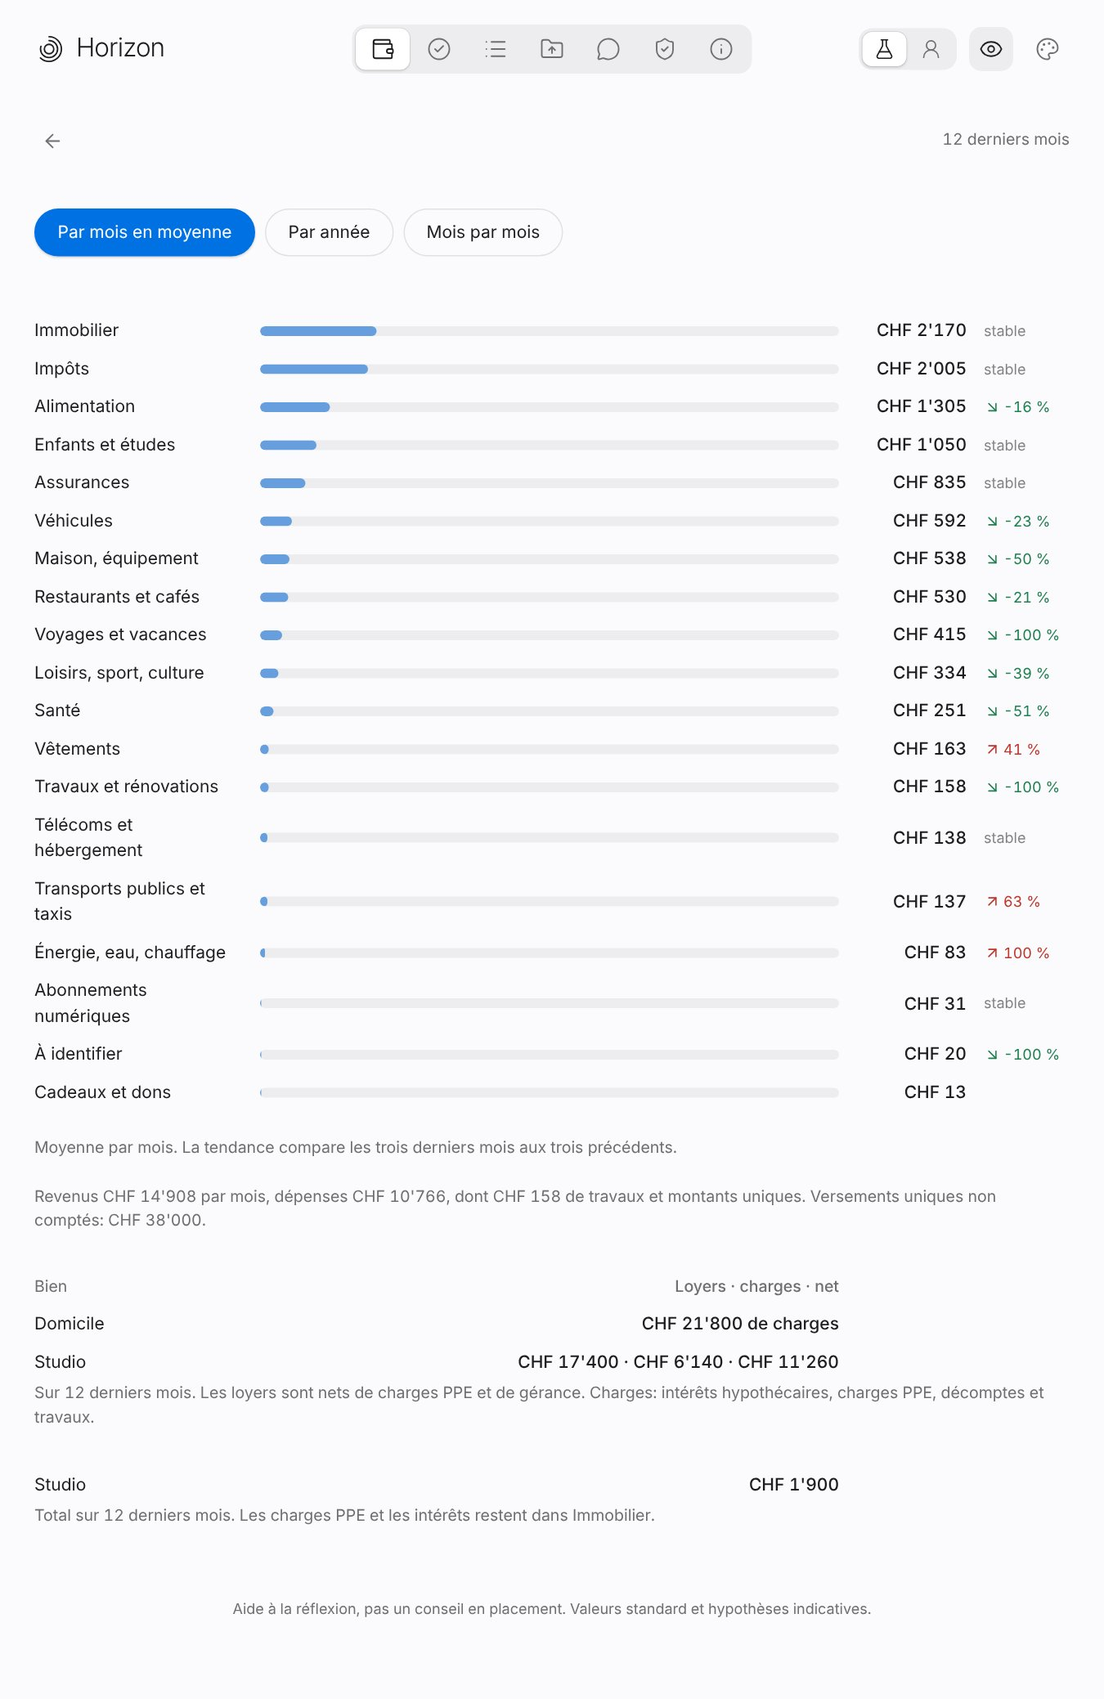
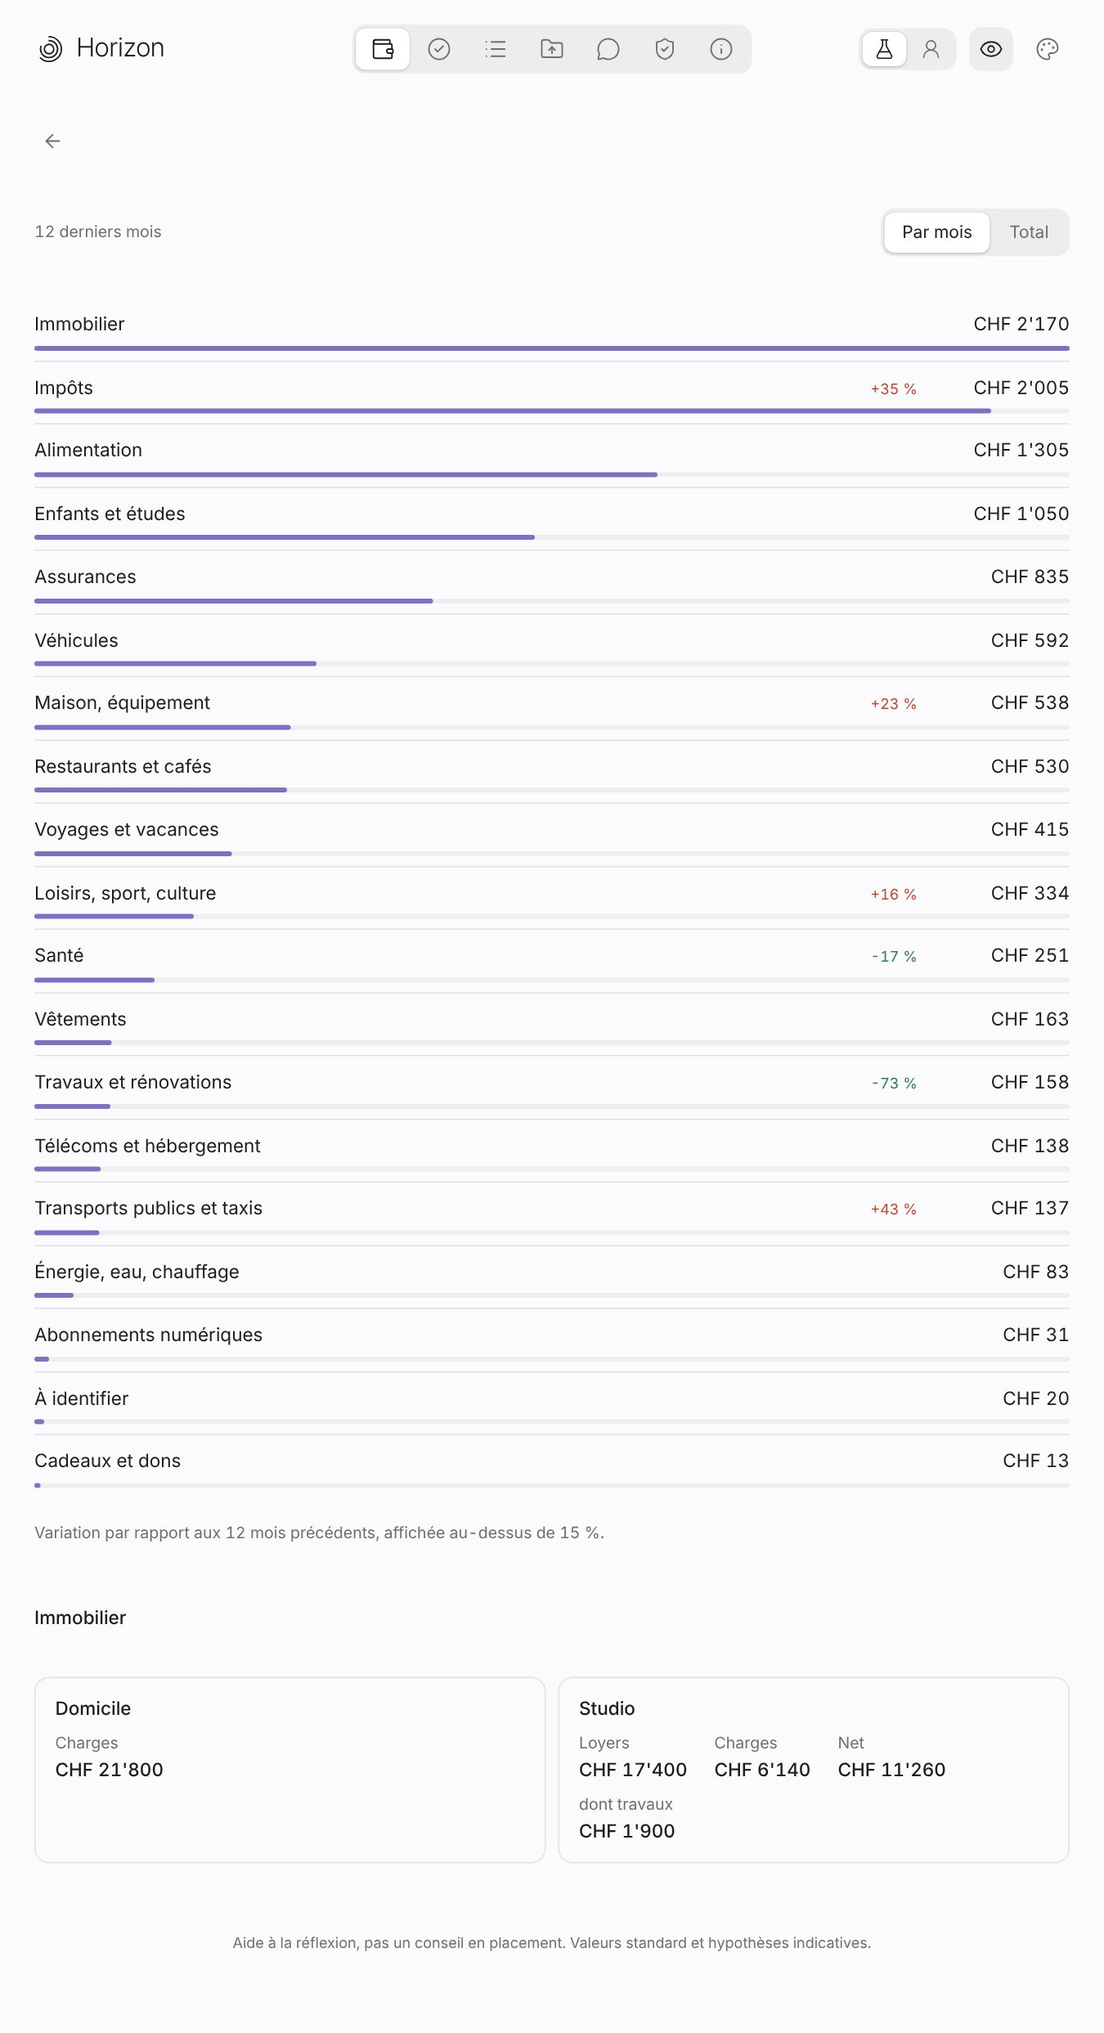
Budget: année en cours cumulée à ce jour, variations à période égale, liste par catégorie simplifiée, biens en cartes (corrige le build cassé)
Claude-Session: https://claude.ai/code/session_01UT5uZqmcmGMjmS4u3UQAYj

diff --git a/src/views/Budget.tsx b/src/views/Budget.tsx
@@ -57,16 +57,27 @@ export function Budget({ db, state, setState, reveal }: { db: Db; state: State; 
   const [period, setPeriod] = useState('12');
   const [view, setView] = useState<'home' | 'all' | 'todo'>(full.length > 0 ? 'home' : 'todo');
   const [sel, setSel] = useState('');
-  const years = useMemo(() => [...new Set(full.filter((m) => m.spend > 0).map((m) => m.month.slice(0, 4)))].filter((y) => full.filter((m) => m.month.startsWith(y) && m.spend > 0).length >= 6).sort().reverse(), [full]);
-  const yearOk = period === '12' || years.includes(period);
-  const used = period === 'm' ? full.slice(-1) : period === '12' || !yearOk ? full.slice(-12) : full.filter((m) => m.month.startsWith(period));
-  const prevYear = period !== '12' && yearOk ? full.filter((m) => m.month.startsWith(String(Number(period) - 1))) : [];
-  const periodLabel = period === 'm' && last ? monthName(last.month) : period === '12' || !yearOk ? `${used.length} derniers mois` : `${used.length} mois de ${period}`;
+  const years = useMemo(() => [...new Set(full.filter((m) => m.spend > 0).map((m) => m.month.slice(0, 4)))].filter((y) => full.filter((m) => m.month.startsWith(y) && m.spend > 0).length >= 3).sort().reverse(), [full]);
+  const isMonth = /^\d{4}-\d{2}$/.test(period);
+  const yearOk = period === '12' || isMonth || years.includes(period);
+  const used = isMonth ? full.filter((m) => m.month === period) : period === '12' || !yearOk ? full.slice(-12) : full.filter((m) => m.month.startsWith(period));
+  // Comparaison à période égale: mêmes mois un an plus tôt, ou les 12 mois précédents. Jamais une année entière contre une année entamée.
+  const prevYear = (() => {
+    if (period === '12' || !yearOk) return full.length >= 24 ? full.slice(-24, -12) : [];
+    const y = String(Number(period.slice(0, 4)) - 1);
+    const months = new Set(used.map((m) => m.month.slice(5)));
+    const p = full.filter((m) => m.month.startsWith(y) && months.has(m.month.slice(5)));
+    return p.length === used.length ? p : [];
+  })();
+  const prevLabel = period === '12' || !yearOk ? 'aux 12 mois précédents' : `à la même période en ${Number(period.slice(0, 4)) - 1}`;
+  const curYear = last ? last.month.slice(0, 4) : '';
+  const yearName = (y: string) => (y === curYear && last && last.month.slice(5) !== '12' ? `${y} à ce jour` : y);
+  const periodLabel = isMonth ? monthName(period) : period === '12' || !yearOk ? `${used.length} derniers mois` : yearName(period);
   // Une dépense payée une année mais qui appartient à une autre (solde d'impôts) suit son année dans la vue par année.
   const adj = useMemo(() => {
     const byCat: Record<string, number> = {};
     let total = 0;
-    if (period !== '12' && yearOk) {
+    if (period !== '12' && !isMonth && yearOk) {
       for (const m of full) {
         const inUsed = m.month.startsWith(period);
         for (const mv of m.moved ?? []) {
@@ -91,21 +102,19 @@ export function Budget({ db, state, setState, reveal }: { db: Db; state: State; 
   const maxBar = Math.max(1, ...used.flatMap((m) => [m.income + m.exceptional, m.spend]));
   const sum = (f: (m: (typeof full)[number]) => number) => used.reduce((s, m) => s + f(m), 0);
 
-  // Tendance: trois derniers mois contre les trois précédents.
   const cats = useMemo(() => {
     const keys = [...new Set([...used.flatMap((m) => Object.keys(m.byCategory)), ...Object.keys(adj.byCat)])];
-    const mean = (ms: typeof used, k: string) => (ms.length ? ms.reduce((s, m) => s + (m.byCategory[k] ?? 0), 0) / ms.length : 0);
+    const mean = (ms: typeof used, k: string) => (ms.length ? ms.reduce((t, m) => t + (m.byCategory[k] ?? 0), 0) / ms.length : 0);
     return keys
       .map((k) => {
-        const recent = mean(used.slice(-3), k);
-        const before = mean(used.slice(-6, -3), k);
-        const prevAvg = prevYear.length >= 6 ? mean(prevYear, k) : null;
-        const trend = prevAvg !== null ? (prevAvg > 20 ? mean(used, k) / prevAvg - 1 : null) : used.length >= 6 && before > 20 ? recent / before - 1 : null;
-        return { key: k, avg: mean(used, k) + (used.length ? (adj.byCat[k] ?? 0) / used.length : 0), last: last?.byCategory[k] ?? 0, trend, prevAvg };
+        const avg = mean(used, k) + (used.length ? (adj.byCat[k] ?? 0) / used.length : 0);
+        const prevAvg = prevYear.length > 0 ? mean(prevYear, k) : null;
+        const trend = prevAvg !== null && prevAvg > 20 ? avg / prevAvg - 1 : null;
+        return { key: k, avg, total: avg * used.length, prevAvg, trend };
       })
       .filter((c) => c.avg > 0)
       .sort((p, q) => q.avg - p.avg);
-  }, [used, last, prevYear, adj]);
+  }, [used, prevYear, adj]);
 
   const immoRows = useMemo(() => {
     const t: Record<string, { loyers: number; charges: number }> = {};
@@ -118,35 +127,7 @@ export function Budget({ db, state, setState, reveal }: { db: Db; state: State; 
     const rank = (k: string) => ((b.homes ?? []).includes(k) ? 0 : k === 'Non réparti' ? 2 : 1);
     return Object.entries(t).sort((p, q) => rank(p[0]) - rank(q[0]) || p[0].localeCompare(q[0]));
   }, [used, b.homes]);
-  // Dépenses par catégorie, par année ou par mois, pour voir d'un coup d'œil ce qu'une catégorie coûte sur l'année.
-  const [catView, setCatView] = useState<'liste' | 'annee' | 'mois'>('liste');
-  const catTable = useMemo(() => {
-    type Col = { key: string; label: string; sub: string; totals: Record<string, number>; n: number };
-    let cols: Col[] = [];
-    if (catView === 'mois') {
-      cols = used.map((m) => ({ key: m.month, label: new Date(`${m.month}-01T00:00:00`).toLocaleDateString('fr-CH', { month: 'short' }), sub: m.month.slice(0, 4), totals: m.byCategory, n: 1 }));
-    } else {
-      for (const y of [...new Set(full.map((m) => m.month.slice(0, 4)))].sort()) {
-        const mm = full.filter((m) => m.month.startsWith(y));
-        if (mm.length < 3) continue; // une année à peine entamée ne dit rien
-        const totals: Record<string, number> = {};
-        for (const m of mm) for (const [k, v] of Object.entries(m.byCategory)) totals[k] = (totals[k] ?? 0) + v;
-        // Un impôt payé une autre année suit son année.
-        for (const m of full) {
-          for (const mv of m.moved ?? []) {
-            const inYear = m.month.startsWith(y);
-            if (inYear && mv.year !== y) totals[mv.category] = (totals[mv.category] ?? 0) - mv.amount;
-            if (!inYear && mv.year === y) totals[mv.category] = (totals[mv.category] ?? 0) + mv.amount;
-          }
-        }
-        cols.push({ key: y, label: y, sub: mm.length < 12 ? `${mm.length} mois` : '', totals, n: mm.length });
-      }
-    }
-    const keys = [...new Set(cols.flatMap((c) => Object.keys(c.totals)))].filter((k) => cols.some((c) => (c.totals[k] ?? 0) > 0));
-    const lastCol = cols[cols.length - 1];
-    if (lastCol) keys.sort((p, q) => (lastCol.totals[q] ?? 0) - (lastCol.totals[p] ?? 0));
-    return { cols, keys };
-  }, [catView, used, full]);
+  const [catView, setCatView] = useState<'moy' | 'total'>('moy');
   const worksByBien = useMemo(() => {
     const t: Record<string, number> = {};
     for (const m of used) for (const [k, v] of Object.entries(m.works ?? {})) t[k] = (t[k] ?? 0) + v;
@@ -258,23 +239,27 @@ export function Budget({ db, state, setState, reveal }: { db: Db; state: State; 
   const topCats = cats.slice(0, 5);
   const periodSelect = (
     <select className="periodsel" value={period} onChange={(e) => setPeriod(e.target.value)} aria-label="Période">
-      <option value="m">{last ? monthName(last.month) : 'Mois'}</option>
       <option value="12">12 derniers mois</option>
-      {years.map((y) => <option key={y} value={y}>{y}</option>)}
+      {years.map((y) => <option key={y} value={y}>{yearName(y)}</option>)}
+      <optgroup label="Mois">
+        {full.slice(-12).reverse().map((m) => <option key={m.month} value={m.month}>{monthName(m.month)}</option>)}
+      </optgroup>
     </select>
   );
+  const bienNames = [...new Set([...immoRows.map(([k]) => k), ...worksByBien.map(([k]) => k)])];
+  const maxCat = Math.max(1, ...cats.map((c) => (catView === 'total' ? c.total : c.avg)));
 
   return (
     <div className="page wide budget">
       <div className="topbar">
         {view === 'home' && last ? periodSelect : <button className="iconbtn" onClick={() => setView('home')} aria-label="Retour"><ArrowLeft size={18} strokeWidth={1.6} /></button>}
-        {view === 'home' && last ? <button className="iconbtn" onClick={() => setView('todo')} aria-label="Documents et points à traiter" title="Documents et points à traiter"><FolderOpen size={18} strokeWidth={1.6} />{todo > 0 ? <i className="badge">{todo}</i> : null}</button> : <span className="muted small">{view === 'all' ? periodLabel : 'Documents'}</span>}
+        {view === 'home' && last ? <button className="iconbtn" onClick={() => setView('todo')} aria-label="Documents et points à traiter" title="Documents et points à traiter"><FolderOpen size={18} strokeWidth={1.6} />{todo > 0 ? <i className="badge">{todo}</i> : null}</button> : <span className="muted small">{view === 'all' ? '' : 'Documents'}</span>}
       </div>
 
       {view === 'home' && last ? (
         <>
           <section className="hero">
-            <p className="unit">Reste {period === 'm' ? '' : 'par mois'}</p>
+            <p className="unit">Reste{used.length > 1 ? ' par mois' : ''}</p>
             <p className={'big xl' + (reste < 0 ? ' neg' : '')}>{money(reste)}</p>
           </section>
           <ul className="toplist">
@@ -288,98 +273,58 @@ export function Budget({ db, state, setState, reveal }: { db: Db; state: State; 
 
       {view === 'all' && last ? (
         <>
-          <div className="periods" role="tablist" aria-label="Affichage des catégories">
-            <button className={'btn' + (catView === 'liste' ? ' primary' : '')} onClick={() => setCatView('liste')}>Par mois en moyenne</button>
-            <button className={'btn' + (catView === 'annee' ? ' primary' : '')} onClick={() => setCatView('annee')}>Par année</button>
-            <button className={'btn' + (catView === 'mois' ? ' primary' : '')} onClick={() => setCatView('mois')}>Mois par mois</button>
+          <div className="allhead">
+            <span className="muted small">{periodLabel}</span>
+            {used.length > 1 ? (
+              <div className="seg" role="tablist" aria-label="Affichage">
+                <button className={catView === 'moy' ? 'on' : ''} onClick={() => setCatView('moy')}>Par mois</button>
+                <button className={catView === 'total' ? 'on' : ''} onClick={() => setCatView('total')}>Total</button>
+              </div>
+            ) : null}
           </div>
-          {catView === 'liste' ? (
-            <>
-            <ul className="cats">
-              {cats.map((c) => (
+          <ul className="catlist">
+            {cats.map((c) => {
+              const v = catView === 'total' ? c.total : c.avg;
+              return (
                 <li key={c.key}>
-                  <span className="name">{LABEL[c.key] ?? c.key}</span>
-                  <span className="share"><i style={{ width: `${avgSpend > 0 ? Math.min(100, (c.avg / avgSpend) * 100) : 0}%` }} /></span>
-                  <span className="amt">{money(c.avg)}{c.prevAvg !== null && prevYear.length >= 6 ? <span className="muted small"> ({Number(period) - 1}: {money(c.prevAvg)})</span> : null}</span>
-                  <span className={'trend' + (c.trend !== null && c.trend > 0.15 ? ' up' : c.trend !== null && c.trend < -0.15 ? ' down' : '')}>
-                    {c.trend === null ? '' : c.trend > 0.15 ? <><ArrowUpRight size={14} strokeWidth={1.8} />{Math.round(c.trend * 100)} %</> : c.trend < -0.15 ? <><ArrowDownRight size={14} strokeWidth={1.8} />{Math.round(c.trend * 100)} %</> : 'stable'}
-                  </span>
+                  <span className="n">{LABEL[c.key] ?? c.key}</span>
+                  <span className="trend2">{c.trend !== null && Math.abs(c.trend) > 0.15 ? <span className={c.trend > 0 ? 'up' : 'down'}>{c.trend > 0 ? '+' : ''}{Math.round(c.trend * 100)} %</span> : null}</span>
+                  <span className="v">{money(v)}</span>
+                  <span className="b"><i style={{ width: `${(v / maxCat) * 100}%` }} /></span>
                 </li>
-              ))}
-            </ul>
-              <p className="muted small">Moyenne par mois. La tendance compare les trois derniers mois aux trois précédents.</p>
-            </>
-          ) : catTable.cols.length > 0 && catTable.keys.length > 0 ? (
+              );
+            })}
+          </ul>
+          {prevYear.length > 0 ? <p className="muted small">Variation par rapport {prevLabel}, affichée au-dessus de 15 %.</p> : null}
+          {bienNames.length > 0 ? (
             <>
-              <div className="periods" role="tablist" aria-label="Affichage des catégories">
-                <button className={'btn' + (catView === 'annee' ? ' primary' : '')} onClick={() => setCatView('annee')}>Par année</button>
-                <button className={'btn' + (catView === 'mois' ? ' primary' : '')} onClick={() => setCatView('mois')}>Par mois</button>
+              <h3 className="subtitle">Immobilier</h3>
+              <div className="biens">
+                {bienNames.map((bien) => {
+                  const v = Object.fromEntries(immoRows)[bien] ?? { loyers: 0, charges: 0 };
+                  const home = (b.homes ?? []).includes(bien);
+                  const works = Object.fromEntries(worksByBien)[bien] ?? 0;
+                  return (
+                    <div className="bien" key={bien}>
+                      <div className="bn">{bien}</div>
+                      <div className="bf">
+                        {home ? (
+                          <div><span>Charges</span><b>{money(v.charges)}</b></div>
+                        ) : (
+                          <>
+                            <div><span>Loyers</span><b>{money(v.loyers)}</b></div>
+                            <div><span>Charges</span><b>{money(v.charges)}</b></div>
+                            <div><span>Net</span><b>{money(v.loyers - v.charges)}</b></div>
+                          </>
+                        )}
+                        {works > 0 ? <div><span>dont travaux</span><b>{money(works)}</b></div> : null}
+                      </div>
+                    </div>
+                  );
+                })}
               </div>
-              <div className="cattable-wrap">
-                <table className="cattable">
-                  <thead>
-                    <tr>
-                      <th>Catégorie</th>
-                      {catTable.cols.map((c) => <th key={c.key}>{c.label}{c.sub ? <span className="muted small"> {c.sub}</span> : null}</th>)}
-                      {catView === 'annee' && catTable.cols.length >= 2 ? <th>Évolution</th> : null}
-                    </tr>
-                  </thead>
-                  <tbody>
-                    {catTable.keys.map((k) => {
-                      const a = catTable.cols[catTable.cols.length - 2];
-                      const z = catTable.cols[catTable.cols.length - 1];
-                      const evo = catView === 'annee' && a && z && a.n >= 6 && z.n >= 6 && (a.totals[k] ?? 0) / a.n > 20 ? (z.totals[k] ?? 0) / z.n / ((a.totals[k] ?? 0) / a.n) - 1 : null;
-                      return (
-                        <tr key={k}>
-                          <th scope="row">{LABEL[k] ?? k}</th>
-                          {catTable.cols.map((c) => <td key={c.key}>{c.totals[k] ? money(c.totals[k]) : '·'}</td>)}
-                          {catView === 'annee' && catTable.cols.length >= 2 ? <td className={'trend' + (evo !== null && evo > 0.15 ? ' up' : evo !== null && evo < -0.15 ? ' down' : '')}>{evo === null ? '' : `${evo > 0 ? '+' : ''}${Math.round(evo * 100)} %`}</td> : null}
-                        </tr>
-                      );
-                    })}
-                    <tr className="total">
-                      <th scope="row">Total</th>
-                      {catTable.cols.map((c) => <td key={c.key}>{money(Object.entries(c.totals).reduce((s, [k, v]) => s + (catTable.keys.includes(k) ? v : 0), 0))}</td>)}
-                      {catView === 'annee' && catTable.cols.length >= 2 ? <td /> : null}
-                    </tr>
-                  </tbody>
-                </table>
-              </div>
-              <p className="muted small">{catView === 'annee' ? 'Total payé dans l’année, impôts rattachés à leur année. L’évolution compare la moyenne mensuelle des deux dernières années.' : `Dépenses de chaque mois sur ${periodLabel}.`}</p>
-
             </>
           ) : null}
-          <p className="muted small">Revenus {money(avgIncome)} par mois, dépenses {money(avgSpend)}, dont {money(avgOneOff)} de travaux et montants uniques. Versements uniques non comptés: {money(sum((m) => m.exceptional))}.</p>
-          {immoRows.length > 0 ? (
-            <h3 className="subtitle">Immobilier</h3>
-<h3 className="subtitle">Travaux par bien</h3>
-<div className="inner">
-              <ul className="cats">
-                <li><span className="name muted small">Bien</span><span className="amt muted small">Loyers · charges · net</span></li>
-                {immoRows.map(([bien, v]) => (
-                  <li key={bien}>
-                    <span className="name">{(b.homes ?? []).includes(bien) && !/domicile/i.test(bien) ? `${bien} (domicile)` : bien}</span>
-                    <span className="amt">{(b.homes ?? []).includes(bien) ? `${money(v.charges)} de charges` : `${money(v.loyers)} · ${money(v.charges)} · ${money(v.loyers - v.charges)}`}</span>
-                  </li>
-                ))}
-              </ul>
-              <p className="muted small">Sur {periodLabel}. Les loyers sont nets de charges PPE et de gérance. Charges: intérêts hypothécaires, charges PPE, décomptes et travaux.</p>
-            </div>
-          ) : null}
-          {worksByBien.length > 0 ? (
-            <div className="inner">
-              <ul className="cats">
-                {worksByBien.map(([bien, total]) => (
-                  <li key={bien}>
-                    <span className="name">{bien}</span>
-                    <span className="amt">{money(total)}</span>
-                  </li>
-                ))}
-              </ul>
-              <p className="muted small">Total sur {periodLabel}. Les charges PPE et les intérêts restent dans Immobilier.</p>
-            </div>
-          ) : null}
-
         </>
       ) : null}
 

diff --git a/src/budget.css b/src/budget.css
@@ -100,3 +100,19 @@
 .toplist li:first-child { border-top: none; }
 .morelink { display: block; margin: 12px auto 0; border: none; background: none; color: var(--accent); font: inherit; font-size: 14px; cursor: pointer; }
 .subtitle { font-size: 15px; font-weight: 500; margin: 28px 0 6px; }
+
+.allhead { display: flex; justify-content: space-between; align-items: center; margin-bottom: 14px; }
+.catlist { list-style: none; margin: 0; padding: 0; }
+.catlist li { display: grid; grid-template-columns: 1fr auto auto; column-gap: 14px; align-items: baseline; padding: 10px 0 8px; border-top: 1px solid var(--line, rgba(0,0,0,.08)); font-size: 15px; }
+.catlist li:first-child { border-top: none; }
+.catlist .v { font-variant-numeric: tabular-nums; text-align: right; min-width: 110px; }
+.catlist .trend2 { font-size: 12px; }
+.catlist .up { color: #c4452d; } .catlist .down { color: #2f7d4f; }
+.catlist .b { grid-column: 1 / -1; height: 4px; border-radius: 2px; background: rgba(0,0,0,.05); margin-top: 6px; }
+.catlist .b i { display: block; height: 100%; border-radius: 2px; background: #534AB7; opacity: .75; }
+.biens { display: grid; gap: 10px; grid-template-columns: repeat(auto-fit, minmax(240px, 1fr)); margin-top: 10px; }
+.bien { border: 1px solid var(--line, rgba(0,0,0,.1)); border-radius: 12px; padding: 14px 16px; }
+.bien .bn { font-weight: 500; margin-bottom: 8px; }
+.bien .bf { display: flex; flex-wrap: wrap; gap: 8px 22px; }
+.bien .bf div { display: flex; flex-direction: column; font-size: 13px; color: var(--ink-2); }
+.bien .bf b { font-weight: 500; font-size: 15px; color: var(--ink); }

diff --git a/README.md b/README.md
@@ -54,7 +54,7 @@ Captures prises sur des données de démonstration inventées (famille fictive c
 
 ![Tout voir: catégories, immobilier, travaux](docs/screenshots/depenses-par-categorie.jpg)
 
-- **Budget** (accueil): un chiffre (ce qui reste par mois) et les cinq plus grosses dépenses. « Tout voir » ouvre les catégories (moyenne mensuelle, par année, mois par mois), l'immobilier et les travaux par bien. L'icône dossier ouvre les documents, les lignes à identifier, tes biens et les dépenses hors relevés. Période: un petit menu en haut.
+- **Budget** (accueil): un chiffre (ce qui reste par mois) et les cinq plus grosses dépenses. « Tout voir » ouvre les catégories (par mois ou en total, avec variation à période égale), l'immobilier et les travaux par bien. L'icône dossier ouvre les documents, les lignes à identifier, tes biens et les dépenses hors relevés. Période: un petit menu en haut.
 - **Importer**: lit un dossier ou des fichiers, masque les identifiants.
 - **À valider**: faits proposés par la lecture des documents, en attente de ton accord.
 - **Données**: tout ce qui est connu, modifiable, avec historique.
